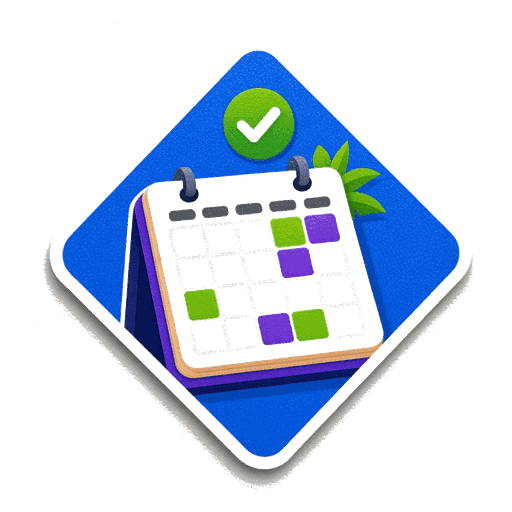
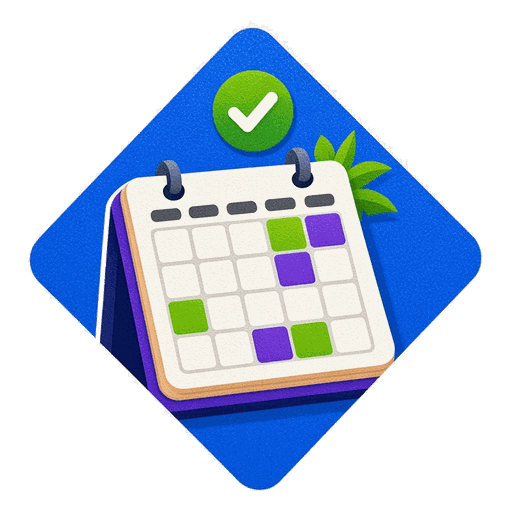
fix(achievements): календарь отпусков — снова белый лист (сжата правильная версия)

Changed region(s): [[0.0312, 0.0312, 0.9375, 0.9688]]

diff --git a/docs/CHANGELOG.md b/docs/CHANGELOG.md
@@ -18,6 +18,10 @@
 - Файлы: `frontend/app/pages/profile/index.vue`, `frontend/app/assets/main.css` (`.profile-stat-tile__wish-corner-bunting`, `.profile-stat-tile__wish-art-img`), `frontend/public/images/profile/wishlist-reminder.{webp,jpg}`.
 - Как проверить (:8080): свой профиль с пустым вишлистом на 1280/1440/1920 и телефоне — флажки висят от верхнего края к правому, текст и подарок не перекрываются.
 
+### Календарь отпусков: снова белый лист
+
+- При сжатии 2026-10-21 в обе ветки по ошибке ушла старая версия картинки с прозрачным листом календаря (на тёмном фоне он выглядел чёрным). Взята исправленная версия из 9849955 (белый лист), сжата так же: 512×512, 256 цветов, ~46 КБ.
+
 ### Сжаты картинки ачивок
 
 - `kalendar-otpuskov.png` (745 → 44 КБ) и `sales-best.png` (889 → 21 КБ): 512×512, палитра 256 цветов, прозрачность сохранена. Пути не менялись.
